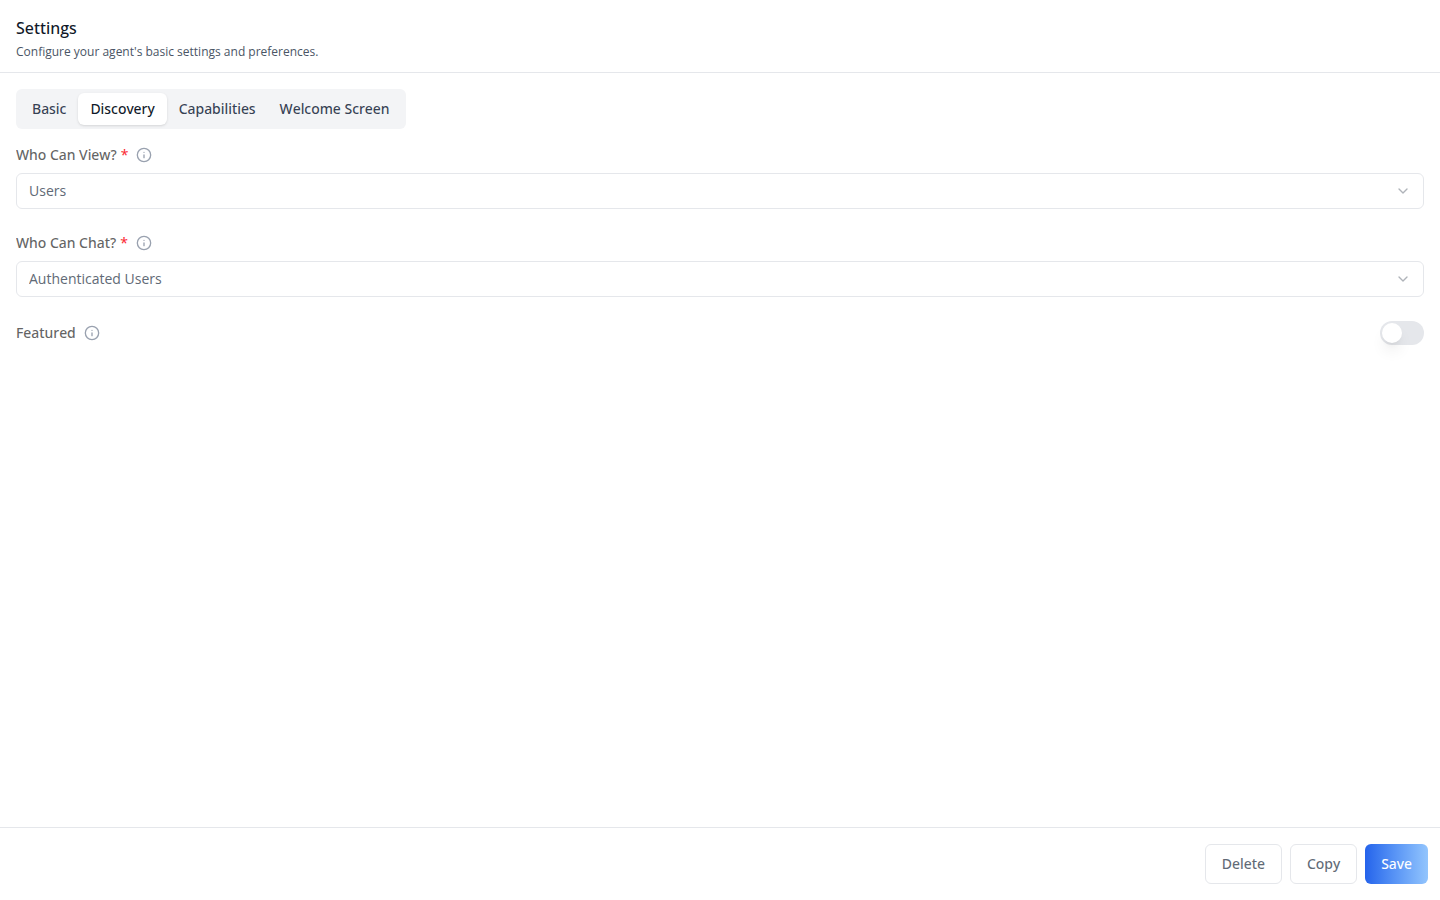
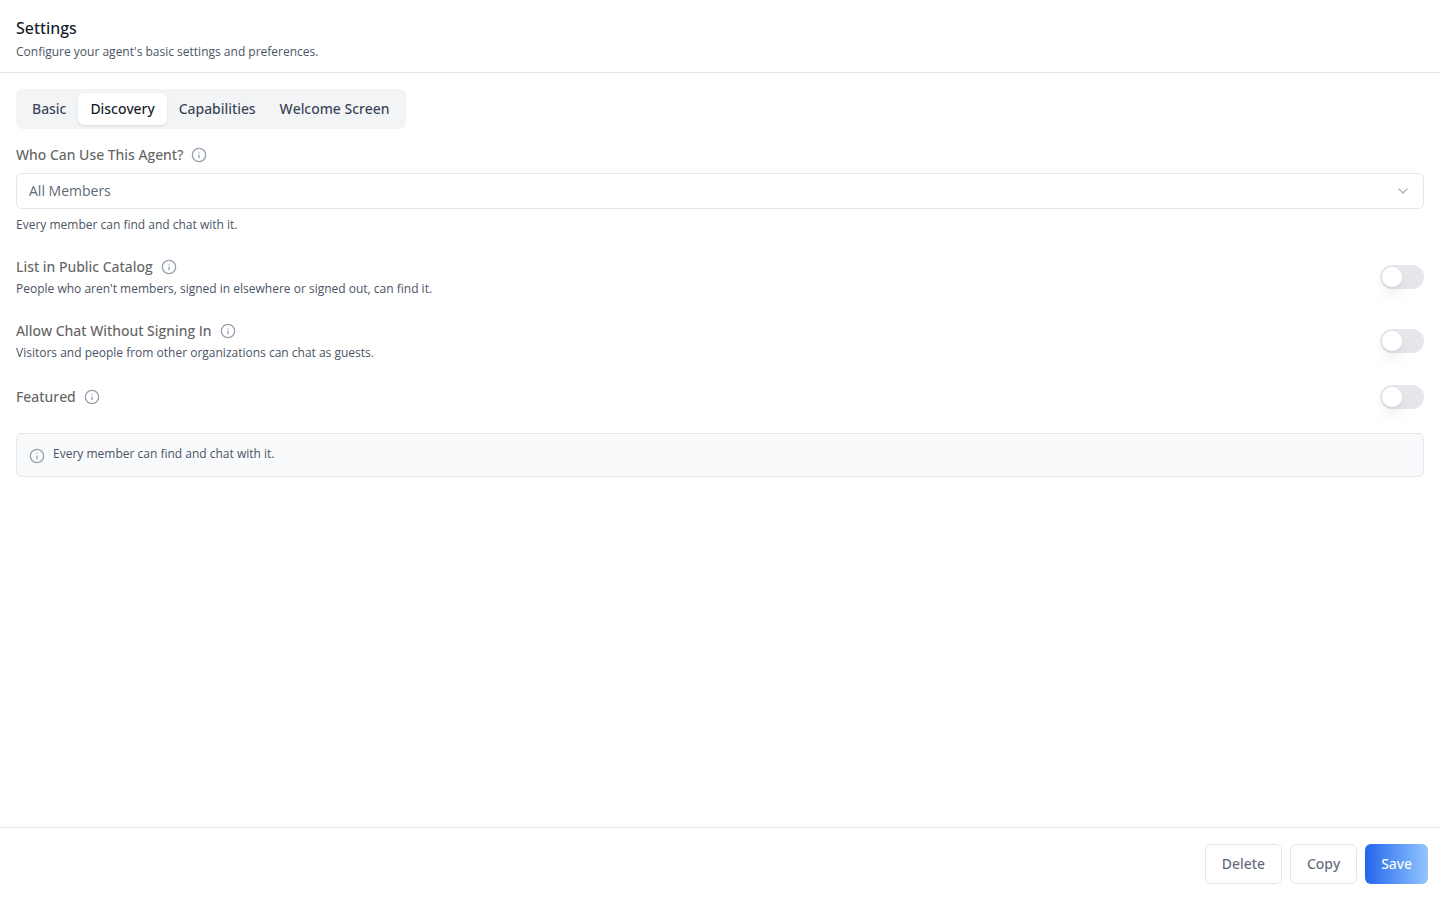
docs(agent-setting): document the new discovery access controls
The Discovery sub-tab replaced Who Can View / Who Can Chat with Who Can
Use This Agent? (All Members / Admins Only), List in Public Catalog,
Allow Chat Without Signing In and a summary line. The skill now
describes them, maps each combination onto mentor_visibility and
allow_anonymous, names the optional discoveryAccess label group, and
its partial-override example uses it (fields.whoCanView no longer labels
Discovery). The headless twin spells out the three mentor_visibility
values. Discovery screenshot re-captured on the starter against .org.

Claude-Session: https://claude.ai/code/session_01VRNve5VPYgHZJFooVdKs3a

diff --git a/adapters/codex/iblai-vibe-agent-setting.md b/adapters/codex/iblai-vibe-agent-setting.md
@@ -18,10 +18,26 @@ tabs as you need.
 
 ![Settings tab -- Basic](https://raw.githubusercontent.com/iblai/vibe/refs/heads/main/skills/agents/iblai-vibe-agent-setting/iblai-vibe-agent-setting.png)
 
-**Discovery** -- who can view the agent (administrators / users / anyone),
-who can chat with it (authenticated users / anyone), and whether it is featured.
+**Discovery** -- **Who Can Use This Agent?** (All Members / Admins Only, with
+help text under it), **List in Public Catalog** (off and disabled under Admins
+Only), **Allow Chat Without Signing In**, the **Featured** toggle,
+and a summary line saying what the combination means. The copy says
+"members", never the organization's name.
 
 ![Settings tab -- Discovery](https://raw.githubusercontent.com/iblai/vibe/refs/heads/main/skills/agents/iblai-vibe-agent-setting/iblai-vibe-agent-setting-2-discovery.png)
+
+The controls are two views of the same two fields; Save sends them unchanged
+(`/iblai-api-agent-setting`):
+
+| Who Can Use | Public Catalog | Chat Without Signing In | `mentor_visibility` | `allow_anonymous` |
+|---|---|---|---|---|
+| Admins Only | off (disabled) | off / on | `viewable_by_tenant_admins` | `false` / `true` |
+| All Members | off | off / on | `viewable_by_tenant_students` | `false` / `true` |
+| All Members | on | off / on | `viewable_by_anyone` | `false` / `true` |
+
+An empty or unknown saved visibility shows as All Members with the catalog
+off and is sent back unchanged unless the user changes it. Switching from
+Admins Only back to All Members turns the catalog off.
 
 **Capabilities** -- **Surface Capabilities** sets Show Attachment, Show Voice
 Record and Show Voice Call separately for the in-app chat (`show_*`) and the
@@ -225,7 +241,7 @@ For a partial override, pass only the keys you want to change:
   tenants={tenants}
   labels={{
     header: { title: "Tutor settings" },
-    fields: { whoCanView: { label: "Who can access this tutor?" } },
+    discoveryAccess: { audienceLabel: "Who Can Use This Tutor?" },
   }}
 />
 ```
@@ -235,11 +251,14 @@ the bundle names the sub-tabs (`subTabs.basic` / `discovery` /
 `capabilities` / `welcomeScreen`), the Capabilities headings
 (`sections.chatExperience`, `advanced`, `perSurface`, `globalSettings`), the
 matrix columns (`surfaces.inAppChat`, `embedWidget`) and their notes
-(`notes.*`), the `sections.contextLimits` heading, and the confirm dialog
-(`adminVisibilityConfirm`) that opens when Save narrows Who Can View to
-Administrators -- a test that waits for the success toast must answer it
-first. The Allow In-Chat Model Change copy is in the LLM tab's
-`LLMTabLabels.inChatModelChange`, not here.
+(`notes.*`), the `sections.contextLimits` heading, the Discovery controls
+(`discoveryAccess`, defaults in `AGENT_SETTINGS_TAB_LABELS.discoveryAccess`;
+optional, so a bundle without it falls back to English), and the confirm dialog
+(`adminVisibilityConfirm`) that opens when Save switches Who Can Use This
+Agent? to Admins Only -- a test that waits for the success toast must answer
+it first. `fields.whoCanView` / `fields.whoCanChat` no longer label
+Discovery; the Embed tab still reads them. The Allow In-Chat Model Change
+copy is in the LLM tab's `LLMTabLabels.inChatModelChange`, not here.
 
 ## Step 5: Use MCP Tools for Customization
 

diff --git a/skills/agents/iblai-vibe-agent-setting/SKILL.md b/skills/agents/iblai-vibe-agent-setting/SKILL.md
@@ -24,10 +24,26 @@ tabs as you need.
 
 ![Settings tab -- Basic](https://raw.githubusercontent.com/iblai/vibe/refs/heads/main/skills/agents/iblai-vibe-agent-setting/iblai-vibe-agent-setting.png)
 
-**Discovery** -- who can view the agent (administrators / users / anyone),
-who can chat with it (authenticated users / anyone), and whether it is featured.
+**Discovery** -- **Who Can Use This Agent?** (All Members / Admins Only, with
+help text under it), **List in Public Catalog** (off and disabled under Admins
+Only), **Allow Chat Without Signing In**, the **Featured** toggle,
+and a summary line saying what the combination means. The copy says
+"members", never the organization's name.
 
 ![Settings tab -- Discovery](https://raw.githubusercontent.com/iblai/vibe/refs/heads/main/skills/agents/iblai-vibe-agent-setting/iblai-vibe-agent-setting-2-discovery.png)
+
+The controls are two views of the same two fields; Save sends them unchanged
+(`/iblai-api-agent-setting`):
+
+| Who Can Use | Public Catalog | Chat Without Signing In | `mentor_visibility` | `allow_anonymous` |
+|---|---|---|---|---|
+| Admins Only | off (disabled) | off / on | `viewable_by_tenant_admins` | `false` / `true` |
+| All Members | off | off / on | `viewable_by_tenant_students` | `false` / `true` |
+| All Members | on | off / on | `viewable_by_anyone` | `false` / `true` |
+
+An empty or unknown saved visibility shows as All Members with the catalog
+off and is sent back unchanged unless the user changes it. Switching from
+Admins Only back to All Members turns the catalog off.
 
 **Capabilities** -- **Surface Capabilities** sets Show Attachment, Show Voice
 Record and Show Voice Call separately for the in-app chat (`show_*`) and the
@@ -231,7 +247,7 @@ For a partial override, pass only the keys you want to change:
   tenants={tenants}
   labels={{
     header: { title: "Tutor settings" },
-    fields: { whoCanView: { label: "Who can access this tutor?" } },
+    discoveryAccess: { audienceLabel: "Who Can Use This Tutor?" },
   }}
 />
 ```
@@ -241,11 +257,14 @@ the bundle names the sub-tabs (`subTabs.basic` / `discovery` /
 `capabilities` / `welcomeScreen`), the Capabilities headings
 (`sections.chatExperience`, `advanced`, `perSurface`, `globalSettings`), the
 matrix columns (`surfaces.inAppChat`, `embedWidget`) and their notes
-(`notes.*`), the `sections.contextLimits` heading, and the confirm dialog
-(`adminVisibilityConfirm`) that opens when Save narrows Who Can View to
-Administrators -- a test that waits for the success toast must answer it
-first. The Allow In-Chat Model Change copy is in the LLM tab's
-`LLMTabLabels.inChatModelChange`, not here.
+(`notes.*`), the `sections.contextLimits` heading, the Discovery controls
+(`discoveryAccess`, defaults in `AGENT_SETTINGS_TAB_LABELS.discoveryAccess`;
+optional, so a bundle without it falls back to English), and the confirm dialog
+(`adminVisibilityConfirm`) that opens when Save switches Who Can Use This
+Agent? to Admins Only -- a test that waits for the success toast must answer
+it first. `fields.whoCanView` / `fields.whoCanChat` no longer label
+Discovery; the Embed tab still reads them. The Allow In-Chat Model Change
+copy is in the LLM tab's `LLMTabLabels.inChatModelChange`, not here.
 
 ## Step 5: Use MCP Tools for Customization
 

diff --git a/adapters/codex/iblai-api-agent-setting.md b/adapters/codex/iblai-api-agent-setting.md
@@ -61,6 +61,14 @@ when configuring an agent's basic identity and capabilities.
     "show_explore_mentors": "boolean"
   }
   ```
+  `mentor_visibility` is one of `viewable_by_tenant_admins` (only org admins,
+  the creator and people given access find and chat with it),
+  `viewable_by_tenant_students` (every org member) or `viewable_by_anyone`
+  (every member, and it is listed in the public catalog for non-members).
+  `allow_anonymous` is separate: `true` lets anyone with the link chat without
+  signing in, whatever the visibility. The Settings tab's Discovery controls
+  (Who Can Use This Agent?, List in Public Catalog, Allow Chat Without Signing
+  In) write exactly these two keys.
   `show_explore_mentors` shows the additional-agents section on the agent's
   welcome screen ("Show additional agents"). `disable_chathistory` makes every
   conversation with this agent incognito; the Privacy tab’s Incognito policy

diff --git a/skills/agents/iblai-api-agent-setting/SKILL.md b/skills/agents/iblai-api-agent-setting/SKILL.md
@@ -65,6 +65,14 @@ when configuring an agent's basic identity and capabilities.
     "show_explore_mentors": "boolean"
   }
   ```
+  `mentor_visibility` is one of `viewable_by_tenant_admins` (only org admins,
+  the creator and people given access find and chat with it),
+  `viewable_by_tenant_students` (every org member) or `viewable_by_anyone`
+  (every member, and it is listed in the public catalog for non-members).
+  `allow_anonymous` is separate: `true` lets anyone with the link chat without
+  signing in, whatever the visibility. The Settings tab's Discovery controls
+  (Who Can Use This Agent?, List in Public Catalog, Allow Chat Without Signing
+  In) write exactly these two keys.
   `show_explore_mentors` shows the additional-agents section on the agent's
   welcome screen ("Show additional agents"). `disable_chathistory` makes every
   conversation with this agent incognito; the Privacy tab’s Incognito policy
